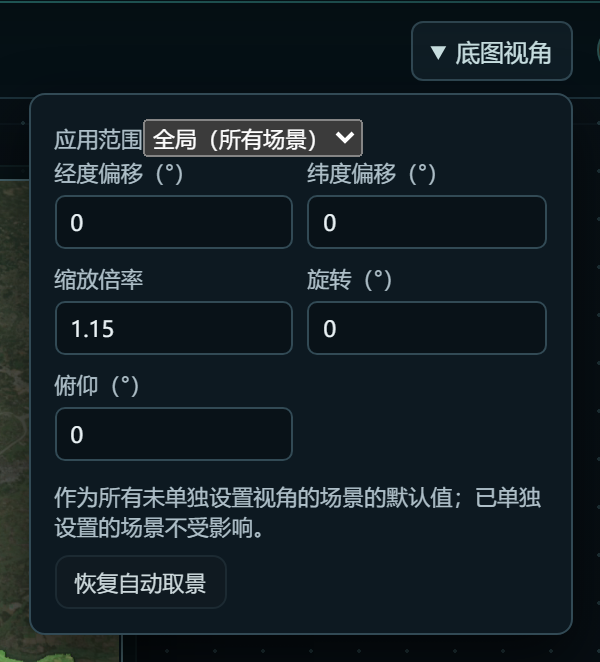
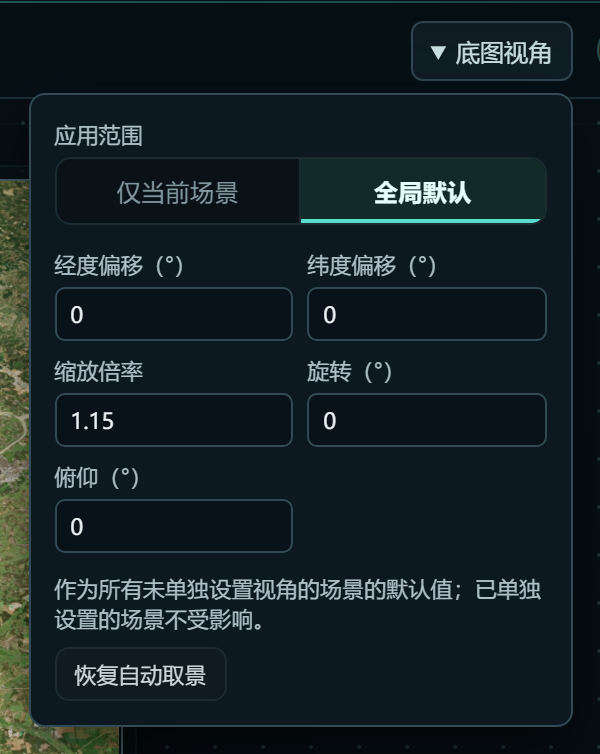
底图视角作用域改用分段按钮，替代与深色主题不协调的原生 select
- 原生 <select> 的下拉浮层是系统样式，无法跟随主题；只有两个选项，改为「仅当前场景 / 全局默认」分段按钮（互斥高亮 + 主题青色选中态）
- 浏览器实测：active 互斥、hint 随作用域切换、场景/全局两套值独立保存

diff --git a/cesium-geo-documentary/apps/studio/public/studio.js b/cesium-geo-documentary/apps/studio/public/studio.js
@@ -2825,7 +2825,7 @@ function renderMapView() {
   panel.hidden = state.previewMode !== "actual" || !scene || scene.section === "cover";
   if (panel.hidden) panel.open = false;
   const scope = mapViewScope();
-  $("mapViewScope").value = scope;
+  for (const button of panel.querySelectorAll(".scope-btn")) button.classList.toggle("active", button.dataset.scope === scope);
   $("mapViewScopeHint").textContent = MAP_VIEW_SCOPE_HINTS[scope];
   const view = scope === "global" ? (state.project?.template?.mapView ?? DEFAULT_MAP_VIEW) : (scene?.mapView ?? DEFAULT_MAP_VIEW);
   for (const input of panel.querySelectorAll("input[name]")) input.value = view[input.name];
@@ -4068,7 +4068,12 @@ function bind() {
   $("actualViewTab").onclick = () => setPreviewMode("actual");
   $("safeAreaTab").onclick = () => setPreviewMode("safe");
   for (const input of $("mapViewControls").querySelectorAll("input[name]")) input.onchange = () => updateMapView(input);
-  $("mapViewScope").onchange = (event) => { state.mapViewScope = event.target.value === "global" ? "global" : "scene"; renderMapView(); pushMapView(); };
+  for (const button of $("mapViewControls").querySelectorAll(".scope-btn")) button.onclick = () => {
+    if (button.classList.contains("active")) return;
+    state.mapViewScope = button.dataset.scope === "global" ? "global" : "scene";
+    renderMapView();
+    pushMapView();
+  };
   $("resetMapView").onclick = () => updateMapView();
   $("projectName").onclick = () => setSaveProjectOpen(true);
   $("projectName").onfocus = () => { $("projectName").blur(); setSaveProjectOpen(true); };

diff --git a/cesium-geo-documentary/apps/studio/public/studio-refine.css b/cesium-geo-documentary/apps/studio/public/studio-refine.css
@@ -866,3 +866,11 @@ button:focus-visible{outline:2px solid #58ddcf;outline-offset:2px}
 .preview-asset-frame[data-entrance="wipe"].is-visible{clip-path:inset(0 0 0 0)}
 .preview-asset-frame[data-entrance="blur"]{filter:blur(18px);transform:translate3d(var(--asset-offset-x,0),var(--asset-offset-y,0px),0) scale(1.07);transition:opacity .5s ease,transform .8s cubic-bezier(.22,.61,.36,1),filter .8s ease}
 .preview-asset-frame[data-entrance="fade"]{transform:translate3d(var(--asset-offset-x,0),var(--asset-offset-y,0px),0) scale(var(--asset-scale,1));transition:opacity .5s ease,filter .42s ease}
+
+/* 底图视角作用域分段按钮：替代原生 select（原生下拉浮层无法跟随深色主题）。
+   两态互斥，选中态用主题青色描边 + 微亮底，未选中态透明融入面板。 */
+.map-view-scope{display:flex;margin:4px 0 12px;border:1px solid var(--line,#22303a);border-radius:8px;overflow:hidden;background:#0a1218}
+.map-view-scope .scope-btn{flex:1;padding:8px 6px;border:0;border-radius:0;background:transparent;color:#8296a0;font-size:12px;letter-spacing:.02em;transition:background .15s,color .15s,box-shadow .15s}
+.map-view-scope .scope-btn+.scope-btn{border-left:1px solid var(--line,#22303a)}
+.map-view-scope .scope-btn:hover{color:#d9eeee;background:#101f26}
+.map-view-scope .scope-btn.active{background:#132b28;color:#e6fffb;font-weight:600;box-shadow:inset 0 -2px 0 var(--teal,#51d8c9)}

diff --git a/cesium-geo-documentary/apps/studio/public/index.html b/cesium-geo-documentary/apps/studio/public/index.html
@@ -100,7 +100,11 @@
         <details id="mapViewControls" class="map-view-controls" hidden>
           <summary>底图视角</summary>
           <div class="map-view-fields" aria-label="底图视角">
-            <label>应用范围<select id="mapViewScope"><option value="scene">仅当前场景</option><option value="global">全局（所有场景）</option></select></label>
+            <label>应用范围</label>
+            <div class="map-view-scope" role="group" aria-label="视角作用范围">
+              <button type="button" class="scope-btn active" data-scope="scene">仅当前场景</button>
+              <button type="button" class="scope-btn" data-scope="global">全局默认</button>
+            </div>
             <div class="grid-2">
               <label>经度偏移（°）<input type="number" name="longitudeOffset" min="-180" max="180" step="0.001" /></label>
               <label>纬度偏移（°）<input type="number" name="latitudeOffset" min="-85" max="85" step="0.001" /></label>
